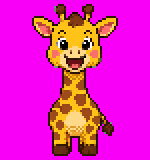
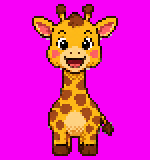
feat: idle tics (blink/ears/tail), side daydream bubble, scene fixes
- idle tics: generalized the blink into a tic system that cycles blink ->
  ear-flick -> tail-swish every few seconds while content. New art frames
  (blink/blink2/blink3, ears_up/ears_down, tail_left) added to img/ +
  data/ via prep_sprite (FRAMES extended); happy.png refreshed.
- daydream bubble moved out of the band to the open sky beside the head
  (no longer over the face), drawn direct + erased on end.
- removed the grass composited behind the giraffe's feet — he no longer
  looks like he's floating above a grass line.
- fixed the moon flashing through the tree: the sun/moon now redraws only
  when it moves (force-redrawn after a sky repaint) instead of every
  frame, so it no longer fights the tree-occlusion redraw.
- disabled the tree sway (barely visible, and a source of redraws).

diff --git a/src/main.cpp b/src/main.cpp
@@ -212,6 +212,27 @@ static const uint32_t HAPPY_FRAME_MS = 3500;
 static int      s_happyIdx  = 0;
 static uint32_t s_happyNext = 0;
 
+// Idle tics: short sprite sequences that play every few seconds while content,
+// layered over the happy-face rotation, then return to the current happy frame.
+//   blink:  open -> blink -> blink2(closed) -> blink3(opening) -> open
+//   ears:   perk up -> down -> back
+//   tail:   swish to the left -> back
+static const char* BLINK_FR[] = {"/giraffe_blink.png", "/giraffe_blink2.png", "/giraffe_blink3.png"};
+static const char* EARS_FR[]  = {"/giraffe_ears_up.png", "/giraffe_ears_down.png"};
+static const char* TAIL_FR[]  = {"/giraffe_tail_left.png"};
+struct Tic { const char* const* frames; int n; uint32_t holdMs; };
+static const Tic TICS[] = {
+  {BLINK_FR, 3, 90},
+  {EARS_FR,  2, 150},
+  {TAIL_FR,  1, 220},
+};
+static const int TIC_N = 3;
+static bool     s_ticActive   = false;
+static int      s_ticKind     = 0;
+static int      s_ticIdx      = 0;
+static uint32_t s_ticStepNext = 0;
+static uint32_t s_ticNext     = 5000;          // next tic start time
+
 static void startEat(uint32_t now, int kind) {
   eat.kind = kind;
   const Emotion e = pet.emotion();     // Excited after feed/drink
@@ -276,21 +297,26 @@ static void drawNote(TFT_eSPI& c, int x, int y) {
   c.fillRect(x, y - 4, 5, 2, TFT_NAVY);
 }
 
-// Drawn into the band at local coords; sits just above-left of the head.
+// Drawn DIRECTLY to the panel in the open sky to the right of the giraffe (clear
+// of its face), with connector dots pointing back toward the head.
+static const int DREAM_CX = 230, DREAM_CY = 44;
 static void drawDaydream(TFT_eSPI& c, uint32_t /*now*/) {
-  const int x = 165 - GIRAFFE_X, y = 46 - GIRAFFE_Y;
+  const int x = DREAM_CX, y = DREAM_CY;
   c.fillCircle(x,     y,     9, TFT_WHITE);          // thought cloud
   c.fillCircle(x - 9, y + 3, 6, TFT_WHITE);
   c.fillCircle(x + 9, y + 3, 6, TFT_WHITE);
   c.fillCircle(x,     y + 6, 6, TFT_WHITE);
-  c.fillCircle(x + 12, y + 14, 2, TFT_WHITE);        // connector dots toward head
-  c.fillCircle(x + 17, y + 19, 1, TFT_WHITE);
+  c.fillCircle(x - 13, y + 13, 2, TFT_WHITE);        // connector dots down-left to head
+  c.fillCircle(x - 18, y + 18, 1, TFT_WHITE);
   switch (dream.icon) {                              // the wish
     case 0:  drawFood(c, x, y, 5);          break;   // apple
     case 1:  drawHeart(c, x, y);            break;
     case 2:  drawNote(c, x, y);             break;
     default: drawButterfly(c, x, y, true);  break;
   }
+}
+static void eraseDaydream(TFT_eSPI& c) {
+  restoreBg(c, DREAM_CX - 21, DREAM_CY - 10, 39, 31);
 }
 
 // Draw the rising Z's into the band sprite at local coords (band clips to bounds).
@@ -639,13 +665,36 @@ void loop() {
       if (slp.active) stopSleep();   // clear Z's before switching sprite
       updateGiraffe(e);              // loads happy.png (frame 0) when entering happy
       drawButtons(tft);
-      if (e == Emotion::Happy) { s_happyIdx = 0; s_happyNext = now + HAPPY_FRAME_MS; }
+      if (e == Emotion::Happy) {
+        s_happyIdx = 0; s_happyNext = now + HAPPY_FRAME_MS;
+        s_ticActive = false; s_ticNext = now + 4000;
+      }
     }
-    // While happy, rotate through the alternate happy faces on a timer.
-    if (e == Emotion::Happy && now >= s_happyNext) {
-      s_happyIdx = (s_happyIdx + 1) % HAPPY_FRAME_N;
-      renderSpriteToBuffer(giraffeBuf, HAPPY_FRAMES[s_happyIdx]);
-      s_happyNext = now + HAPPY_FRAME_MS;
+    // While happy: play an occasional idle tic; otherwise rotate the faces.
+    if (e == Emotion::Happy) {
+      if (s_ticActive) {                           // step through the tic's frames
+        const Tic& t = TICS[s_ticKind];
+        if (now >= s_ticStepNext) {
+          s_ticIdx++;
+          if (s_ticIdx < t.n) {
+            renderSpriteToBuffer(giraffeBuf, t.frames[s_ticIdx]);
+            s_ticStepNext = now + t.holdMs;
+          } else {                                 // tic done -> current happy face
+            s_ticActive = false;
+            renderSpriteToBuffer(giraffeBuf, HAPPY_FRAMES[s_happyIdx]);
+            s_ticNext = now + 3500 + (now % 5000); // 3.5–8.5 s until the next tic
+          }
+        }
+      } else if (now >= s_ticNext) {               // start the next tic (cycles kinds)
+        s_ticKind = (s_ticKind + 1) % TIC_N;
+        s_ticActive = true; s_ticIdx = 0;
+        renderSpriteToBuffer(giraffeBuf, TICS[s_ticKind].frames[0]);
+        s_ticStepNext = now + TICS[s_ticKind].holdMs;
+      } else if (now >= s_happyNext) {             // idle face rotation
+        s_happyIdx = (s_happyIdx + 1) % HAPPY_FRAME_N;
+        renderSpriteToBuffer(giraffeBuf, HAPPY_FRAMES[s_happyIdx]);
+        s_happyNext = now + HAPPY_FRAME_MS;
+      }
     }
     // Sleep state (Z's are drawn into the band below while active).
     if (e == Emotion::Sleepy) {
@@ -679,7 +728,6 @@ void loop() {
     composeSkyBand(skyBand, giraffeBuf);
     if (eat.active) drawEatItem(skyBand, GIRAFFE_X, GIRAFFE_Y, now - eat.start);
     if (slp.active) drawSleepZ(skyBand, now);
-    if (dream.active) drawDaydream(skyBand, now);
     if (play_.active && play_.kind == PLAY_BUTTERFLY) drawPlayButterfly(skyBand, now - play_.start);
     if (play_.active && play_.kind == PLAY_BUBBLES)   drawPlayBubbles(skyBand, now - play_.start);
     if (play_.active && play_.kind == PLAY_KICK) {    // in-box ball part -> band (clips)
@@ -693,6 +741,13 @@ void loop() {
     pushGiraffe();
     drawEatItem(tft, 0, 0, now - eat.start);
   }
+
+  // Daydream bubble: drawn last, in the open sky beside the giraffe. Redraw it
+  // every frame while active (stays on top of drifting birds); erase on end.
+  static bool dreamDrawn = false;
+  const bool showDream = dream.active && !eat.active && !play_.active && !cln.active && !slp.active;
+  if (showDream) { drawDaydream(tft, now); dreamDrawn = true; }
+  else if (dreamDrawn) { eraseDaydream(tft); dreamDrawn = false; }
 
   // Redraw the meters the instant any stat changes (action or decay).
   const uint8_t hu = pet.hunger(), th = pet.thirst(), fn = pet.fun(), hy = pet.hygiene();

diff --git a/src/ui.cpp b/src/ui.cpp
@@ -37,6 +37,7 @@ static SkyPhase s_phaseId = PHASE_DAY;
 // Celestial body, positioned each tick by main along an arc (setCelestial).
 static int  s_celX = 288, s_celY = 52;
 static bool s_celSun = true;
+static bool s_celForce = true;   // force a redraw next frame (after a sky repaint)
 void setCelestial(int cx, int cy, bool isSun) { s_celX = cx; s_celY = cy; s_celSun = isSun; }
 
 // Stars (night only) — fixed dots in the OPEN sky (clear of the giraffe box
@@ -64,20 +65,6 @@ static const Blade GRASS[] = {
   {245,195,11,4,0x4DA0}, {289,196,11,4,0x4DA0}, {313,194,10,4,0x4DA0},
 };
 static const int GRASS_N = sizeof(GRASS) / sizeof(GRASS[0]);
-
-// Grass that sits BEHIND the giraffe (x within the box 85..235). Drawn only into
-// the band sprite, so the legs occlude it and it peeks through between/around them.
-// Same three depth rows as the surrounding scene (back/mid/front) so it matches.
-static const Blade GRASS_BOX[] = {
-  // back row (short, dark, gentle)
-  {100,172,5,1,0x2A40}, {140,173,4,1,0x2A40}, {176,172,5,2,0x2A40}, {214,171,4,1,0x2A40},
-  // mid row (medium)
-  {110,183,8,2,0x3B80}, {158,184,7,2,0x3B80}, {200,182,8,2,0x3B80},
-  // front row (tall, bright)
-  { 96,193,10,3,0x4DA0}, {130,192,11,4,0x4DA0}, {164,193,11,4,0x4DA0},
-  {198,192,10,3,0x4DA0}, {226,191, 9,3,0x4DA0},
-};
-static const int GRASS_BOX_N = sizeof(GRASS_BOX) / sizeof(GRASS_BOX[0]);
 
 static uint32_t s_phase = 0;                 // breeze phase (ms); set each frame by main
 void uiSetPhase(uint32_t now) { s_phase = now; }
@@ -111,9 +98,7 @@ static void drawStars(TFT_eSPI& tft, int x, int y, int w, int h) {
       tft.drawPixel(STARS[i].x, STARS[i].y, 0xFFFF);
 }
 
-static int treeSway(int bx) {
-  return (int)(2.0f * sinf((s_phase + bx * 40) / 900.0f));   // slow canopy sway, -2..2
-}
+static int treeSway(int) { return 0; }   // sway disabled — trees stand still
 
 static void drawTree(TFT_eSPI& tft, int bx, int by) {
   const int sw = treeSway(bx);
@@ -284,19 +269,6 @@ void animateScenery(TFT_eSPI& tft) {
     tft.fillRect(b.x - (b.amp + 3), b.y - b.h - 1, 2 * (b.amp + 3), b.h + 2, GROUND_COLOR);
     drawBlade(tft, b);
   }
-  static int lastL = 99, lastR = 99;
-  const int swL = treeSway(TREE_LX), swR = treeSway(TREE_RX);
-  if (swL != lastL) {
-    tft.fillRect(TREE_LX - 25, TREE_BASEY - 62, 50, 19, SKY_COLOR);
-    drawTree(tft, TREE_LX, TREE_BASEY);
-    lastL = swL;
-  }
-  if (swR != lastR) {
-    tft.fillRect(TREE_RX - 25, TREE_BASEY - 62, 50, 19, SKY_COLOR);
-    drawTree(tft, TREE_RX, TREE_BASEY);
-    lastR = swR;
-  }
-
   // Clouds drift slowly; erase old + draw new, both clipped to outside the box.
   for (int i = 0; i < 2; i++) {
     const int nx = (int)((s_phase / 70 + i * 190) % 400) - 40;
@@ -320,20 +292,19 @@ void animateScenery(TFT_eSPI& tft) {
     }
   }
 
-  // Sun/moon arc: erase the old open-sky position when it moves, then redraw at
-  // the current spot every frame (in front of the clouds, behind the giraffe).
-  static int celPrevX = -999, celPrevY = -999;
-  if (s_celX != celPrevX || s_celY != celPrevY) {
-    if (celPrevX > -900) eraseCelestial(tft, celPrevX, celPrevY);
-    celPrevX = s_celX; celPrevY = s_celY;
+  // Sun/moon arc: redraw ONLY when it moves (or after a sky repaint via
+  // s_celForce). Redrawing every frame flashed where the trees occlude it —
+  // the moon flickered through the canopy. Erase old, draw new, re-occlude.
+  static int celDrawnX = -999, celDrawnY = -999;
+  if (s_celForce || s_celX != celDrawnX || s_celY != celDrawnY) {
+    if (celDrawnX > -900 && !s_celForce) eraseCelestial(tft, celDrawnX, celDrawnY);
+    drawCelestialDirect(tft);
+    int cbx, cby, cbw, cbh; celestialBox(s_celX, s_celY, cbx, cby, cbw, cbh);
+    if (overlap(cbx, cby, cbw, cbh, TREE_LX - 25, TREE_BASEY - 62, 50, 62)) drawTree(tft, TREE_LX, TREE_BASEY);
+    if (overlap(cbx, cby, cbw, cbh, TREE_RX - 25, TREE_BASEY - 62, 50, 62)) drawTree(tft, TREE_RX, TREE_BASEY);
+    celDrawnX = s_celX; celDrawnY = s_celY;
+    s_celForce = false;
   }
-  drawCelestialDirect(tft);
-
-  // A low rising/setting sun overlaps the trees — redraw any it touches so the
-  // canopy occludes it (sun sinks behind the tree).
-  int cbx, cby, cbw, cbh; celestialBox(s_celX, s_celY, cbx, cby, cbw, cbh);
-  if (overlap(cbx, cby, cbw, cbh, TREE_LX - 25, TREE_BASEY - 62, 50, 62)) drawTree(tft, TREE_LX, TREE_BASEY);
-  if (overlap(cbx, cby, cbw, cbh, TREE_RX - 25, TREE_BASEY - 62, 50, 62)) drawTree(tft, TREE_RX, TREE_BASEY);
 
   animateCritters(tft);
 }
@@ -356,8 +327,6 @@ void composeSkyBand(TFT_eSprite& band, uint16_t* gbuf) {
     drawCloud(band, s_cloudX[i] - GIRAFFE_X, CLOUD_Y[i] - GIRAFFE_Y);
   for (int i = 0; i < 3; i++)
     drawBird(band, s_birdX[i] - GIRAFFE_X, BIRD_Y[i] - GIRAFFE_Y, s_birdUp[i]);
-  for (int i = 0; i < GRASS_BOX_N; i++)
-    drawBlade(band, GRASS_BOX[i], GIRAFFE_X, GIRAFFE_Y);
   // Sun/moon behind the giraffe (band auto-clips to its bounds); the giraffe
   // overlay below then occludes whatever the silhouette covers.
   drawCelestialAt(band, s_celX - GIRAFFE_X, s_celY - GIRAFFE_Y);
@@ -631,6 +600,7 @@ void setSkyPhase(SkyPhase p) {
   s_phaseId    = p;
   SKY_COLOR    = PALETTES[p].sky;
   GROUND_COLOR = PALETTES[p].ground;
+  s_celForce   = true;   // a phase repaint wipes the sky → redraw the sun/moon
 }
 
 SkyPhase currentSkyPhase() { return s_phaseId; }

diff --git a/tools/prep_sprite.py b/tools/prep_sprite.py
@@ -26,9 +26,10 @@ MAGENTA_RGB = (248, 0, 248)
 EMOTIONS = ["happy", "hungry", "sad", "excited", "sleepy", "sick", "reading",
             "thirsty", "bored", "dirty"]
 
-# Extra animation frames (not pet emotions): alternate happy faces cycled on a
-# timer, and the two kick poses for the beach-ball play animation.
-FRAMES = ["happy2", "happy3", "kick1", "kick2"]
+# Extra animation frames (not pet emotions): alternate happy faces, kick poses,
+# the 3-frame idle blink, and the ear/tail idle tics.
+FRAMES = ["happy2", "happy3", "kick1", "kick2", "blink", "blink2", "blink3",
+          "ears_up", "ears_down", "tail_left"]
 
 # Square props from img/objects/ -> data/<name>.png. (name, sprite size px).
 OBJECTS = [("beach_ball", 80)]